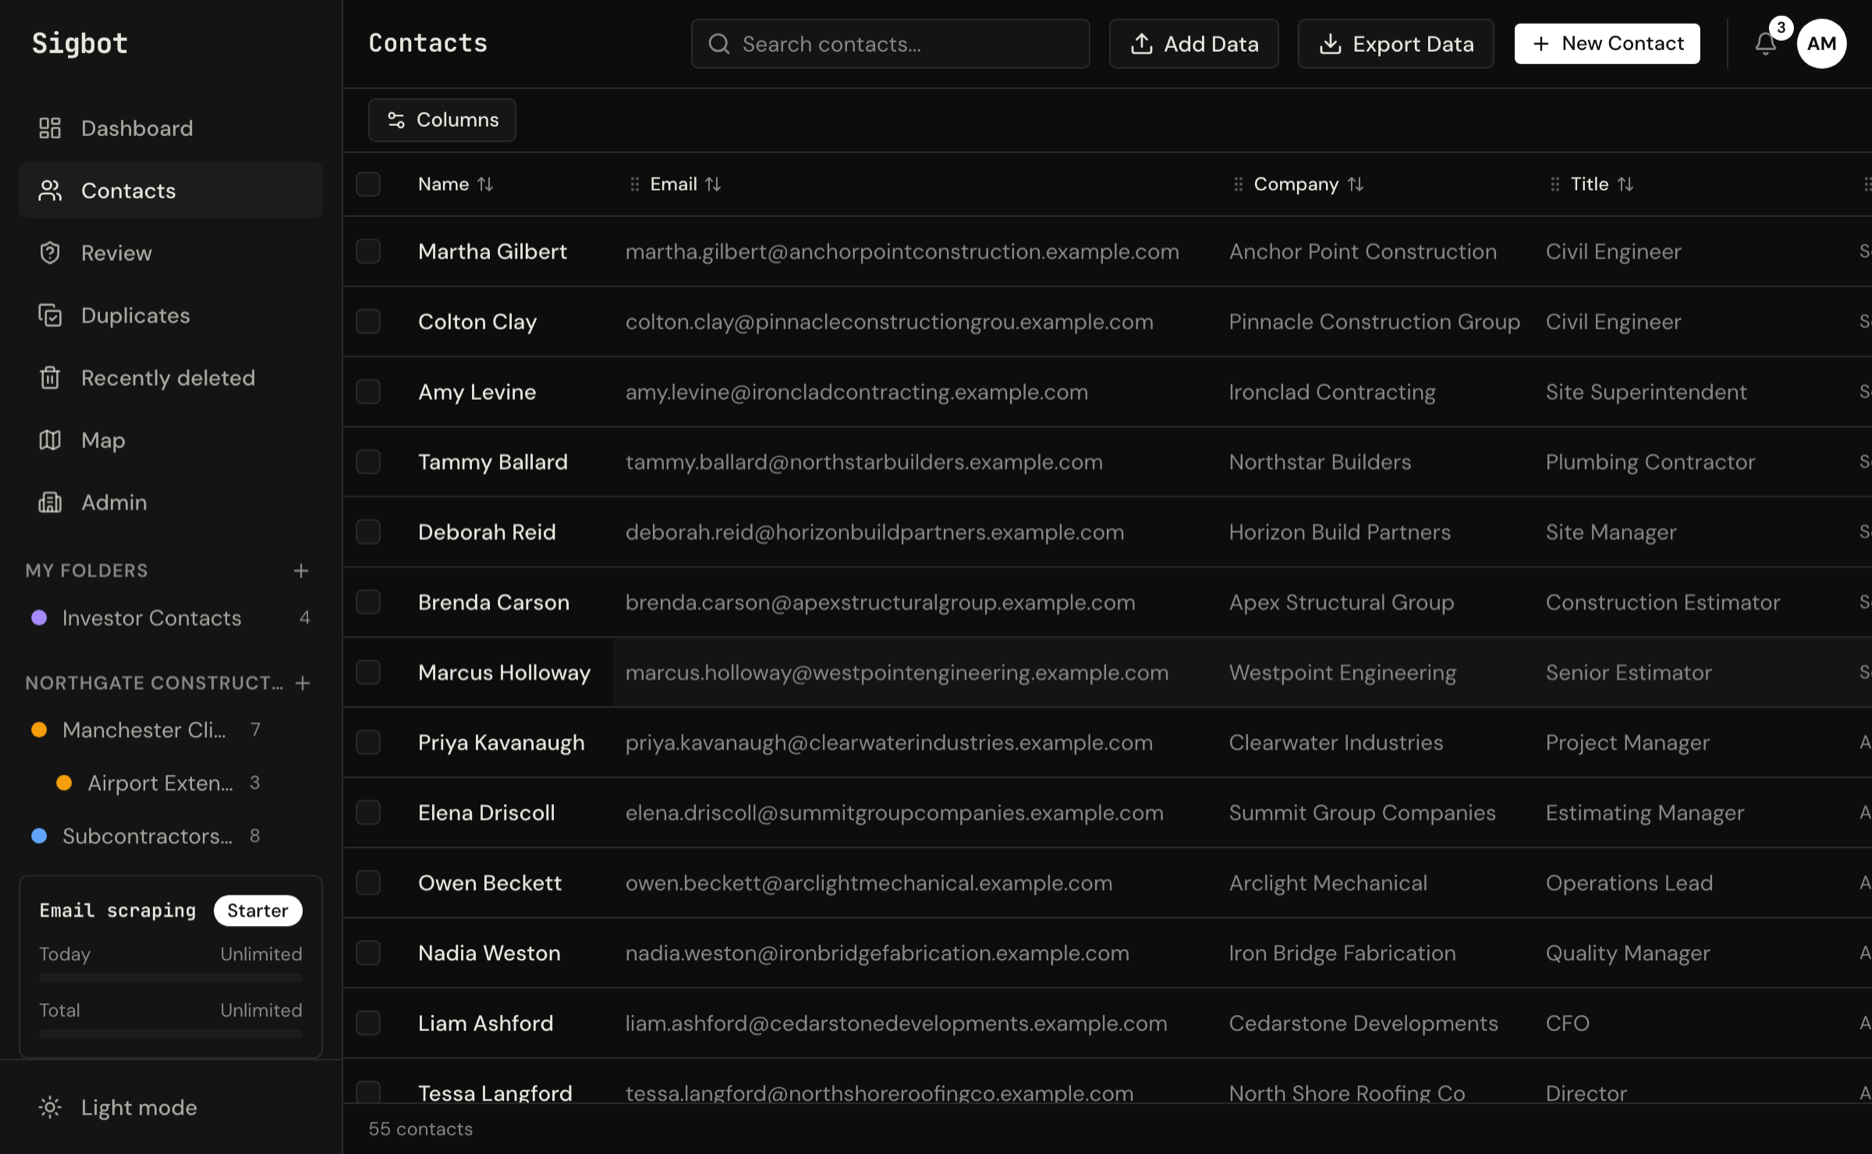
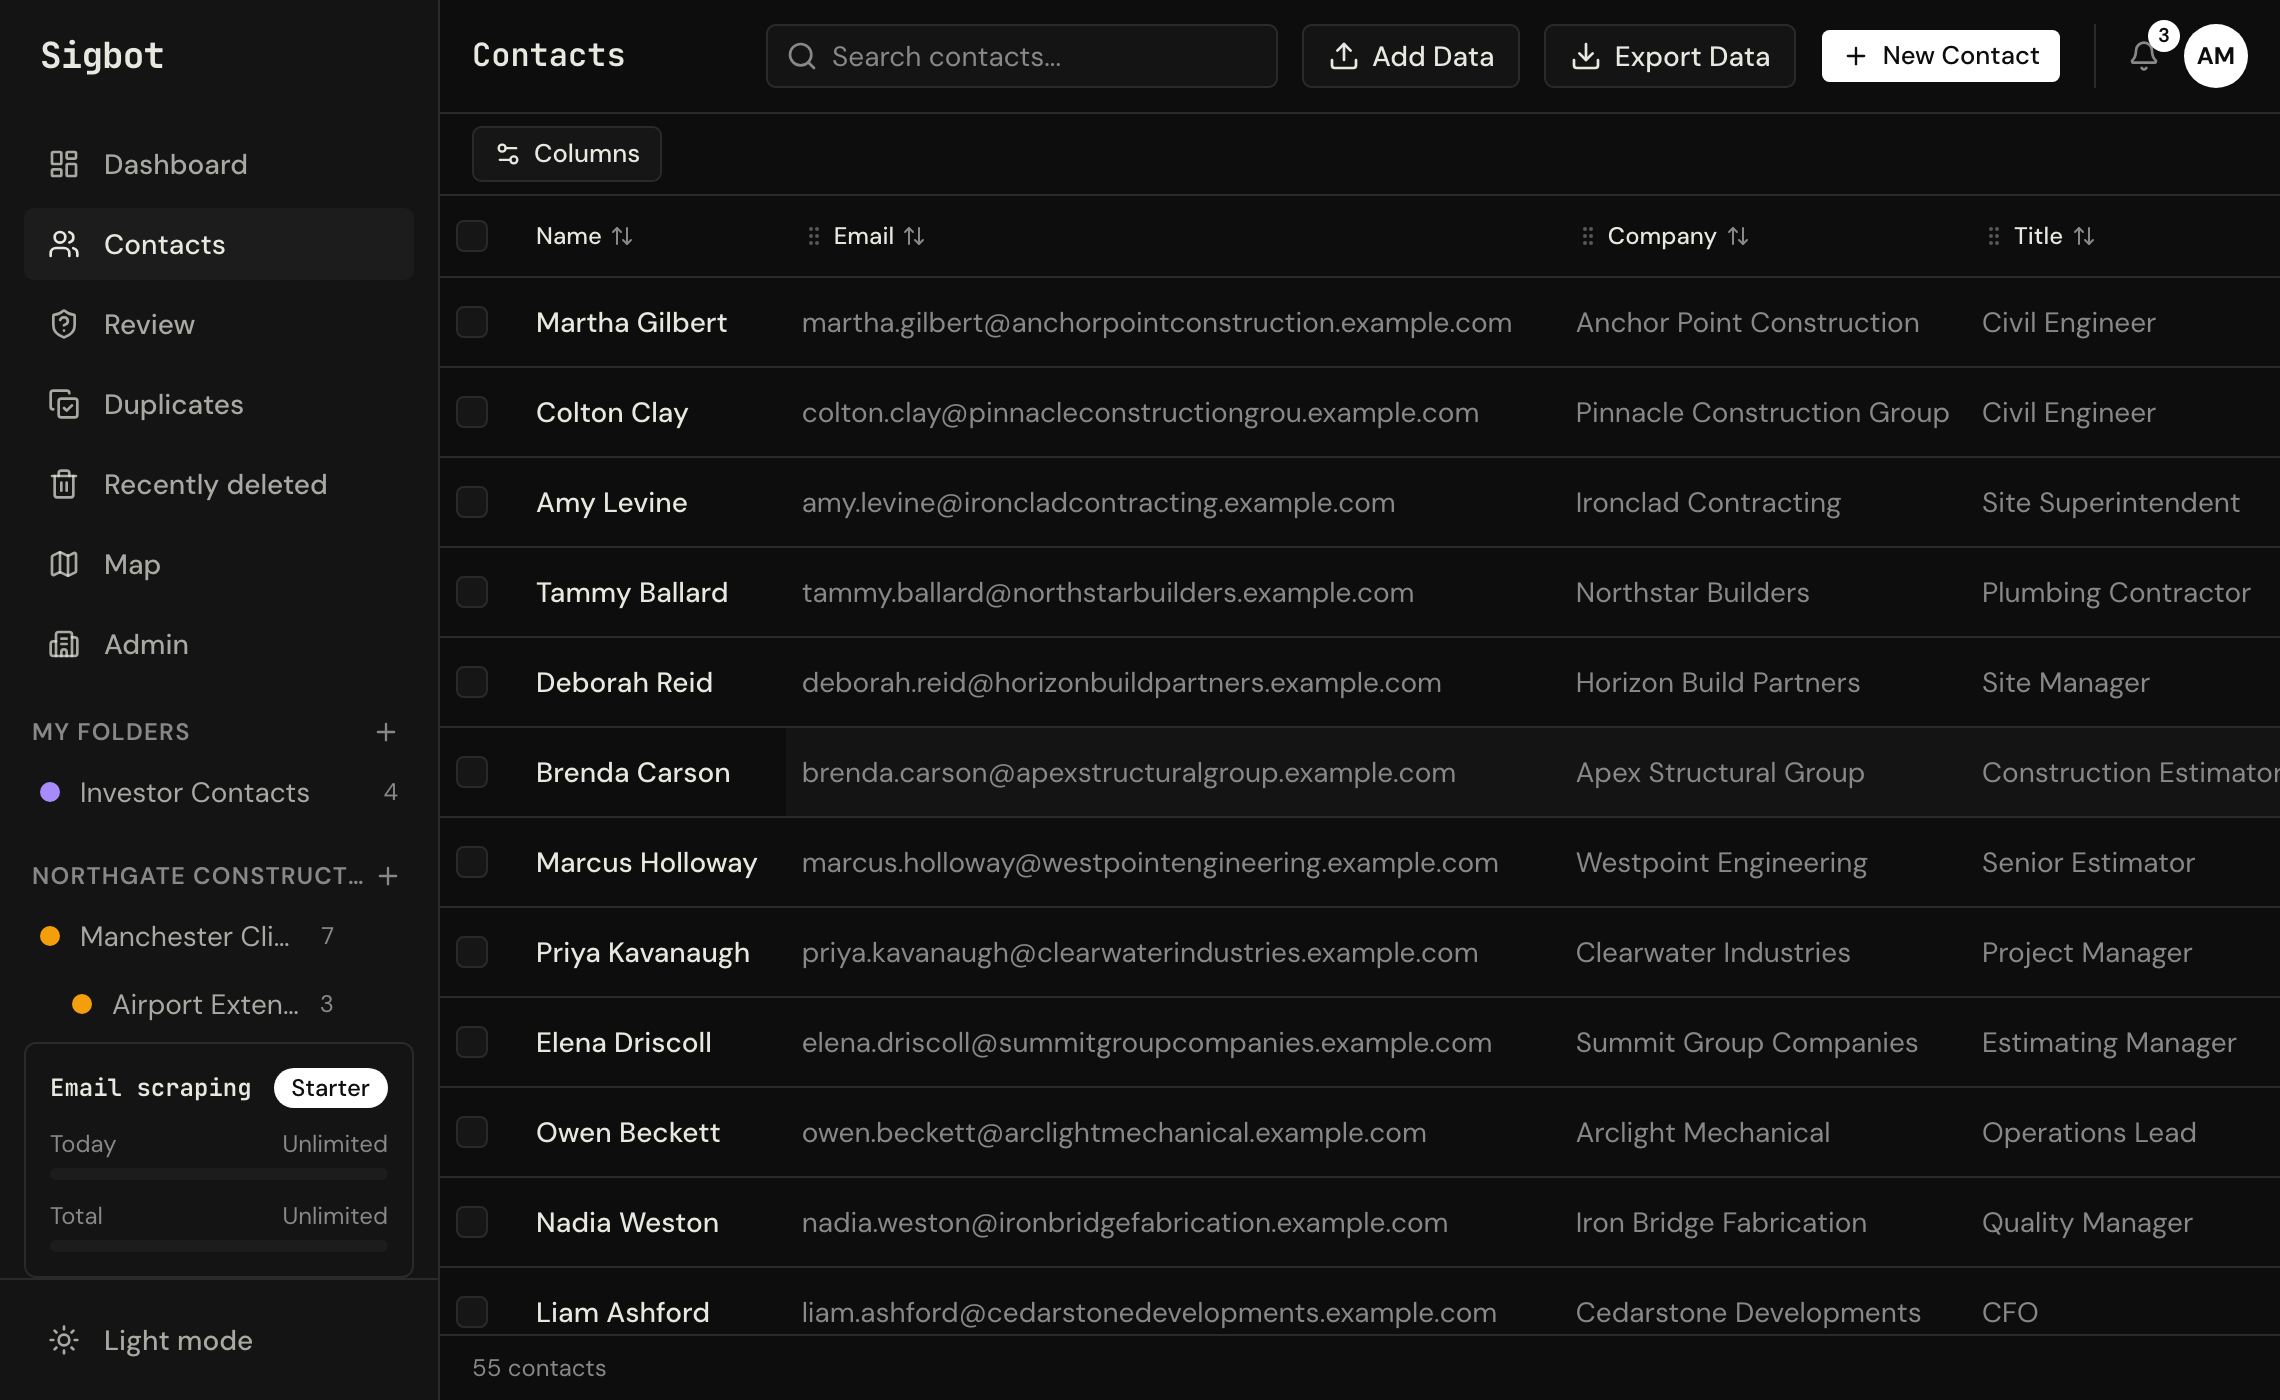
Web-app screenshots: recapture larger, let frames break the column
The six app captures were 1200px-wide UIs squeezed into 700-900px
frames, which made the interface text unreadably small. The frames now
break out of the 936px text column to min(1140px, 100vw - 48px)
(.browser-window.wide — explicit width + flex-shrink:0, since
max-width alone is clamped by the column), and every shot was
recaptured at a 1140px viewport, so on desktop the app displays at
native size.

diff --git a/webapp.html b/webapp.html
@@ -84,7 +84,7 @@
           Every contact with a location is plotted on an interactive world map. Zoom into regions, click clusters to explore contacts, and spot where your network is growing.
         </p>
         <div style="display: flex; justify-content: center;">
-          <div class="browser-window">
+          <div class="browser-window wide">
             <div class="browser-chrome">
               <div class="browser-dots">
                 <div class="browser-dot red"></div>
@@ -106,7 +106,7 @@
         </p>
         <p class="sample-data-label"><em>Sample data shown for illustration.</em></p>
         <div style="display: flex; justify-content: center;">
-          <div class="browser-window">
+          <div class="browser-window wide">
             <div class="browser-chrome">
               <div class="browser-dots">
                 <div class="browser-dot red"></div>
@@ -115,7 +115,7 @@
               </div>
               <div class="browser-url">sigbot.app/dashboard</div>
             </div>
-            <img src="assets/webapp-dashboard.png" alt="The Sigbot dashboard: total contacts, top company and role, a contact growth chart, recent activity, and data completeness meters" width="1872" height="1154" loading="lazy" style="width: 100%; display: block;">
+            <img src="assets/webapp-dashboard.png" alt="The Sigbot dashboard: total contacts, top company and role, a contact growth chart, recent activity, and data completeness meters" width="2280" height="1400" loading="lazy" style="width: 100%; display: block;">
           </div>
         </div>
       </div>
@@ -307,7 +307,7 @@
           </div>
           <div class="wa-center-col">
             <p class="sample-data-label"><em>Sample data shown for illustration.</em></p>
-            <div class="browser-window">
+            <div class="browser-window wide">
               <div class="browser-chrome">
                 <div class="browser-dots">
                   <div class="browser-dot red"></div>
@@ -316,7 +316,7 @@
                 </div>
                 <div class="browser-url">sigbot.app/contacts</div>
               </div>
-              <img src="assets/webapp-contacts.png" alt="The Sigbot contacts table with sortable name, email, company and title columns, search, and the folder tree in the sidebar" width="1872" height="1154" loading="lazy" style="width: 100%; display: block;">
+              <img src="assets/webapp-contacts.png" alt="The Sigbot contacts table with sortable name, email, company and title columns, search, and the folder tree in the sidebar" width="2280" height="1400" loading="lazy" style="width: 100%; display: block;">
             </div>
           </div>
         </div>
@@ -333,7 +333,7 @@
           </div>
           <div class="wa-center-col">
             <p class="sample-data-label"><em>Sample data shown for illustration.</em></p>
-            <div class="browser-window small">
+            <div class="browser-window wide">
               <div class="browser-chrome">
                 <div class="browser-dots">
                   <div class="browser-dot red"></div>
@@ -342,7 +342,7 @@
                 </div>
                 <div class="browser-url">sigbot.app/team/manchester-clients</div>
               </div>
-              <img src="assets/webapp-folder.png" alt="A shared team folder in Sigbot showing its contacts, the admin permission badge, and colour-coded folders in the sidebar" width="1872" height="1154" loading="lazy" style="width: 100%; display: block;">
+              <img src="assets/webapp-folder.png" alt="A shared team folder in Sigbot showing its contacts, the admin permission badge, and colour-coded folders in the sidebar" width="2280" height="1400" loading="lazy" style="width: 100%; display: block;">
             </div>
           </div>
         </div>
@@ -359,7 +359,7 @@
           </div>
           <div class="wa-center-col">
             <p class="sample-data-label"><em>Sample data shown for illustration.</em></p>
-            <div class="browser-window small">
+            <div class="browser-window wide">
               <div class="browser-chrome">
                 <div class="browser-dots">
                   <div class="browser-dot red"></div>
@@ -368,7 +368,7 @@
                 </div>
                 <div class="browser-url">sigbot.app/admin</div>
               </div>
-              <img src="assets/webapp-team.png" alt="Sigbot team management: members with owner, admin and member roles, seat usage, and invitations" width="1872" height="1154" loading="lazy" style="width: 100%; display: block;">
+              <img src="assets/webapp-team.png" alt="Sigbot team management: members with owner, admin and member roles, seat usage, and invitations" width="2280" height="1400" loading="lazy" style="width: 100%; display: block;">
             </div>
           </div>
         </div>
@@ -385,7 +385,7 @@
           </div>
           <div class="wa-center-col">
             <p class="sample-data-label"><em>Sample data shown for illustration.</em></p>
-            <div class="browser-window small">
+            <div class="browser-window wide">
               <div class="browser-chrome">
                 <div class="browser-dots">
                   <div class="browser-dot red"></div>
@@ -394,7 +394,7 @@
                 </div>
                 <div class="browser-url">sigbot.app/contacts/review</div>
               </div>
-              <img src="assets/webapp-review.png" alt="The Sigbot review queue holding back automated senders, with reasons, scores, and approve, reject and trust-domain actions" width="1872" height="1154" loading="lazy" style="width: 100%; display: block;">
+              <img src="assets/webapp-review.png" alt="The Sigbot review queue holding back automated senders, with reasons, scores, and approve, reject and trust-domain actions" width="2280" height="1400" loading="lazy" style="width: 100%; display: block;">
             </div>
           </div>
         </div>
@@ -413,7 +413,7 @@
             </p>
           </div>
           <div style="display: flex; justify-content: center; width: 100%;">
-            <div class="browser-window small">
+            <div class="browser-window wide">
               <div class="browser-chrome">
                 <div class="browser-dots">
                   <div class="browser-dot red"></div>
@@ -422,7 +422,7 @@
                 </div>
                 <div class="browser-url">sigbot.app/contacts</div>
               </div>
-              <img src="assets/webapp-export.png" alt="The export menu on the Sigbot contacts table offering Excel, CSV, JSON and vCard downloads" width="1872" height="1154" loading="lazy" style="width: 100%; display: block;">
+              <img src="assets/webapp-export.png" alt="The export menu on the Sigbot contacts table offering Excel, CSV, JSON and vCard downloads" width="2280" height="1400" loading="lazy" style="width: 100%; display: block;">
             </div>
           </div>
         </div>

diff --git a/assets/css/webapp.css b/assets/css/webapp.css
@@ -13,6 +13,19 @@
       max-width: 700px;
     }
 
+    /* Real-screenshot frames. The captures are 1140px-wide app viewports,
+       so the frame breaks out of the 936px text column and shows them at
+       (near) native size — squeezing a full app UI into the column made
+       its text unreadably small. An explicit width (not max-width) is
+       what escapes the column; flex-shrink: 0 stops the centering flex
+       wrappers from clamping it back; calc keeps a 24px gutter on
+       viewports narrower than the capture. */
+    .browser-window.wide {
+      width: min(1140px, calc(100vw - 48px));
+      max-width: none;
+      flex-shrink: 0;
+    }
+
     .browser-chrome {
       background: #1a1a1a;
       border-bottom: 1px solid #2a2a2a;
